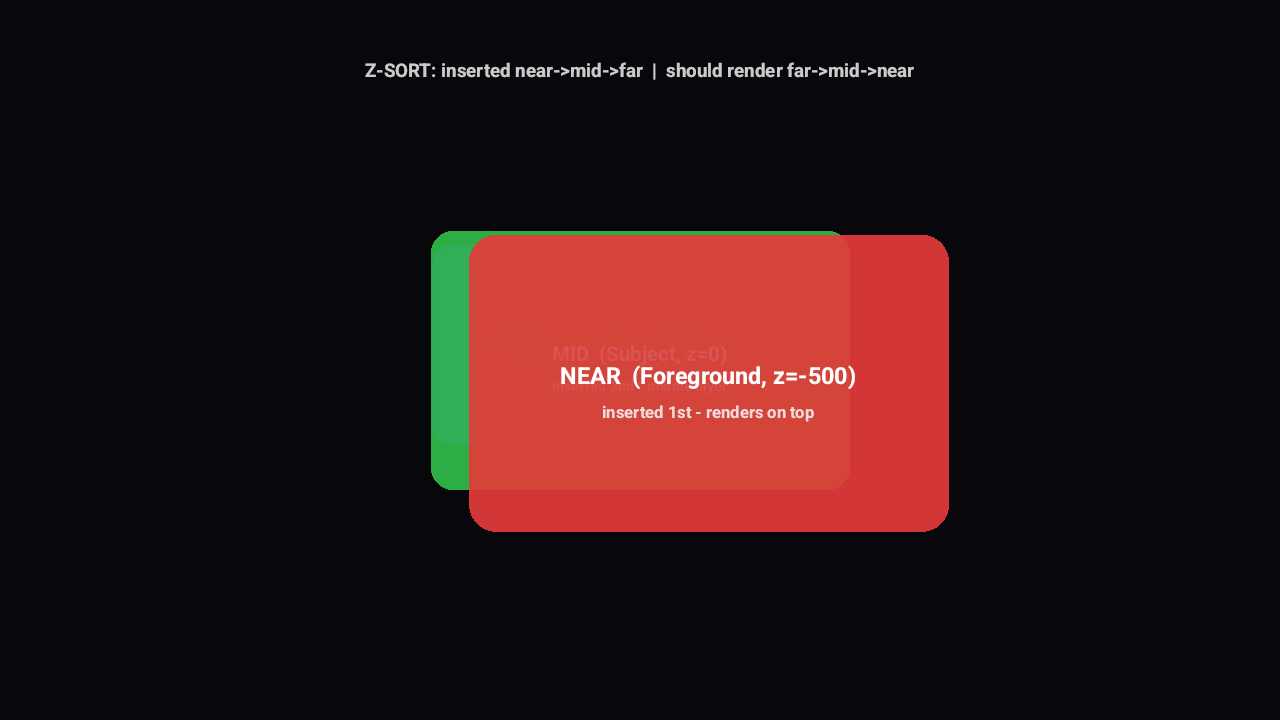
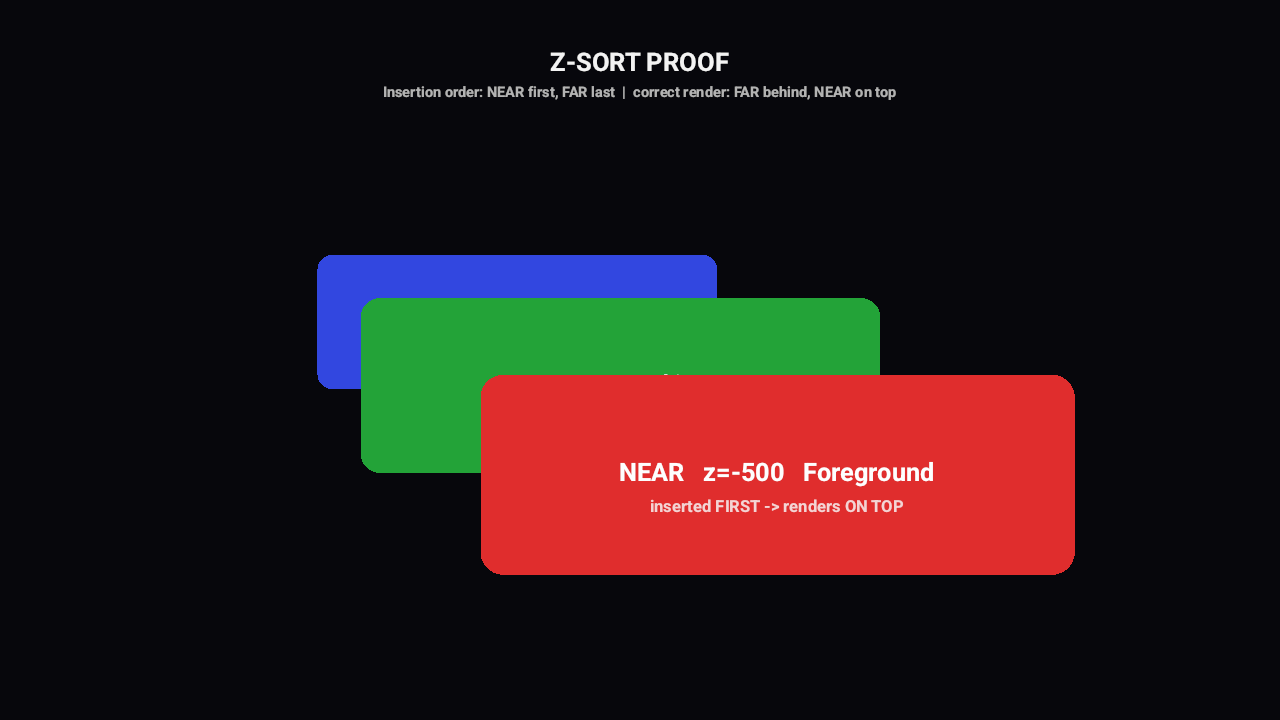
polish(proofs): redesign z_sorting cascade, parallax per-role cards, drop offset dup
ZSortingProof:
- Clear cascade layout (FAR top-left, MID center, NEAR bottom-right)
- Each card shows role name, z value, insertion/render order note
- No alpha confusion: all cards opaque, stagger makes all three readable

ParallaxRolesProof:
- Each depth role gets its own card at a unique X position (160-1120)
- Cards drift at visibly different rates as camera pans
- Fixed 2D bottom legend: "FarBG z=+2000 | BG z=+1200 | ... | HUD 2D fixed"
- FarBackground checker covers full canvas as reference layer

proof_suites.cpp:
- Remove DepthRoleOffsetProof from depth suite (duplicate of DepthOffsetProof)

Changed region(s): [[0.25, 0.3056, 0.8438, 0.825], [0.2812, 0.0611, 0.7188, 0.1528]]

diff --git a/examples/depth_roles_proof.cpp b/examples/depth_roles_proof.cpp
@@ -156,10 +156,9 @@ CHRONON_REGISTER_COMPOSITION("DepthRoleOffsetProof", DepthRoleOffsetProof)
 
 // ---------------------------------------------------------------------------
 // ZSortingProof
-// Three overlapping cards at different Z depths.
-// Near card (red, inserted FIRST) must render on top of far card (blue, inserted LAST).
-// Camera at z=-4000 so scale differences are small (~5-15%) — cards stay readable.
-// Insertion order: near → mid → far (backwards from expected 2D painter order).
+// Three cards in a cascade layout. Insertion order is NEAR first, FAR last —
+// the opposite of correct render order. Validates depth sort.
+// Each card is staggered so all three are readable even with overlap.
 // ---------------------------------------------------------------------------
 static Composition ZSortingProof() {
     return composition({
@@ -167,67 +166,67 @@ static Composition ZSortingProof() {
     }, [](const FrameContext& ctx) {
         SceneBuilder s(ctx);
 
-        // Camera far back so the depth-role Z values (-500, 0, +1200) produce
-        // only subtle scale variation — avoids the near card swallowing everything.
         s.camera_2_5d({
             .enabled = true, .position = {0, 0, -4000}, .zoom = 4000.0f
         });
         s.rect("bg", { .size = {1280, 720}, .color = Color{0.03f, 0.03f, 0.05f, 1},
                         .pos = {640, 360, 0} });
 
-        // Label: insertion order is intentionally reversed vs depth
         s.layer("title", [](LayerBuilder& l) {
-            l.position({640, 60, 0});
-            l.text("t", { .content = "Z-SORT: inserted near->mid->far  |  should render far->mid->near",
-                .style = { .font_path = "assets/fonts/Inter-Bold.ttf", .size = 22,
-                           .color = Color{1,1,1,0.6f}, .align = TextAlign::Center } });
+            l.position({640, 48, 0});
+            l.text("t1", { .content = "Z-SORT PROOF",
+                .style = { .font_path = "assets/fonts/Inter-Bold.ttf", .size = 30,
+                           .color = Color{1,1,1,0.9f}, .align = TextAlign::Center } });
+            l.text("t2", { .content = "Insertion order: NEAR first, FAR last  |  correct render: FAR behind, NEAR on top",
+                .style = { .font_path = "assets/fonts/Inter-Bold.ttf", .size = 17,
+                           .color = Color{1,1,1,0.45f}, .align = TextAlign::Center },
+                .pos = {0, 36, 0} });
         });
 
-        // Near-red — inserted FIRST, depth_role Foreground (z=-500).
-        // After depth sort this must paint LAST (on top).
-        s.layer("near-red", [](LayerBuilder& l) {
-            l.enable_3d(true).position({700, 380, 0}).depth_role(DepthRole::Foreground);
-            l.rounded_rect("r", { .size = {420, 260}, .radius = 24,
-                .color = Color{0.85f, 0.22f, 0.22f, 0.95f}, .pos = {0, 0, 0} });
-            l.text("l1", { .content = "NEAR  (Foreground, z=-500)",
-                .style = { .font_path = "assets/fonts/Inter-Bold.ttf", .size = 24,
+        // Cascade: top-left(far) -> center(mid) -> bottom-right(near)
+        // FAR-blue inserted LAST — must paint first (behind)
+        s.layer("far", [](LayerBuilder& l) {
+            l.enable_3d(true).position({480, 310, 0}).depth_role(DepthRole::Background);
+            l.rounded_rect("r", { .size = {520, 175}, .radius = 20,
+                .color = Color{0.20f, 0.28f, 0.88f, 1}, .pos = {0, 0, 0} });
+            l.text("l1", { .content = "FAR   z=+1200   Background",
+                .style = { .font_path = "assets/fonts/Inter-Bold.ttf", .size = 26,
                            .color = Color{1,1,1,1}, .align = TextAlign::Center },
-                .pos = {0, -18, 0} });
-            l.text("l2", { .content = "inserted 1st - renders on top",
+                .pos = {0, -14, 0} });
+            l.text("l2", { .content = "inserted LAST -> renders BEHIND",
                 .style = { .font_path = "assets/fonts/Inter-Bold.ttf", .size = 17,
-                           .color = Color{1,1,1,0.7f}, .align = TextAlign::Center },
-                .pos = {0, 18, 0} });
+                           .color = Color{1,1,1,0.65f}, .align = TextAlign::Center },
+                .pos = {0, 20, 0} });
         });
 
-        // Mid-green — inserted SECOND, Subject (z=0).
-        s.layer("mid-green", [](LayerBuilder& l) {
-            l.enable_3d(true).position({640, 360, 0}).depth_role(DepthRole::Subject);
-            l.rounded_rect("r", { .size = {420, 260}, .radius = 24,
-                .color = Color{0.18f, 0.70f, 0.28f, 0.95f}, .pos = {0, 0, 0} });
-            l.text("l1", { .content = "MID  (Subject, z=0)",
-                .style = { .font_path = "assets/fonts/Inter-Bold.ttf", .size = 24,
+        // MID-green inserted SECOND
+        s.layer("mid", [](LayerBuilder& l) {
+            l.enable_3d(true).position({620, 385, 0}).depth_role(DepthRole::Subject);
+            l.rounded_rect("r", { .size = {520, 175}, .radius = 20,
+                .color = Color{0.14f, 0.64f, 0.22f, 1}, .pos = {0, 0, 0} });
+            l.text("l1", { .content = "MID   z=0   Subject",
+                .style = { .font_path = "assets/fonts/Inter-Bold.ttf", .size = 26,
                            .color = Color{1,1,1,1}, .align = TextAlign::Center },
-                .pos = {0, -18, 0} });
-            l.text("l2", { .content = "inserted 2nd - middle layer",
+                .pos = {0, -14, 0} });
+            l.text("l2", { .content = "inserted 2nd -> middle layer",
                 .style = { .font_path = "assets/fonts/Inter-Bold.ttf", .size = 17,
-                           .color = Color{1,1,1,0.7f}, .align = TextAlign::Center },
-                .pos = {0, 18, 0} });
+                           .color = Color{1,1,1,0.65f}, .align = TextAlign::Center },
+                .pos = {0, 20, 0} });
         });
 
-        // Far-blue — inserted LAST, Background (z=+1200).
-        // Must paint FIRST (behind both), despite being inserted last.
-        s.layer("far-blue", [](LayerBuilder& l) {
-            l.enable_3d(true).position({580, 340, 0}).depth_role(DepthRole::Background);
-            l.rounded_rect("r", { .size = {420, 260}, .radius = 24,
-                .color = Color{0.22f, 0.33f, 0.90f, 0.95f}, .pos = {0, 0, 0} });
-            l.text("l1", { .content = "FAR  (Background, z=+1200)",
-                .style = { .font_path = "assets/fonts/Inter-Bold.ttf", .size = 24,
+        // NEAR-red inserted FIRST — must paint last (on top)
+        s.layer("near", [](LayerBuilder& l) {
+            l.enable_3d(true).position({760, 460, 0}).depth_role(DepthRole::Foreground);
+            l.rounded_rect("r", { .size = {520, 175}, .radius = 20,
+                .color = Color{0.88f, 0.18f, 0.18f, 1}, .pos = {0, 0, 0} });
+            l.text("l1", { .content = "NEAR   z=-500   Foreground",
+                .style = { .font_path = "assets/fonts/Inter-Bold.ttf", .size = 26,
                            .color = Color{1,1,1,1}, .align = TextAlign::Center },
-                .pos = {0, -18, 0} });
-            l.text("l2", { .content = "inserted last - renders behind",
+                .pos = {0, -14, 0} });
+            l.text("l2", { .content = "inserted FIRST -> renders ON TOP",
                 .style = { .font_path = "assets/fonts/Inter-Bold.ttf", .size = 17,
-                           .color = Color{1,1,1,0.7f}, .align = TextAlign::Center },
-                .pos = {0, 18, 0} });
+                           .color = Color{1,1,1,0.65f}, .align = TextAlign::Center },
+                .pos = {0, 20, 0} });
         });
 
         return s.build();
@@ -291,8 +290,10 @@ CHRONON_REGISTER_COMPOSITION("DepthOffsetProof", DepthOffsetProof)
 
 // ---------------------------------------------------------------------------
 // ParallaxRolesProof
-// Camera pans X while layers at different depth roles move at different rates.
-// FarBackground moves least, Foreground moves most — visible parallax separation.
+// Each depth role gets its own card at a unique X position.
+// Camera pans X: cards at different depths drift at different rates.
+// FarBackground drifts least, Foreground drifts most.
+// Fixed 2D legend at bottom lists every role with its Z value.
 // ---------------------------------------------------------------------------
 static Composition ParallaxRolesProof() {
     return composition({
@@ -301,9 +302,9 @@ static Composition ParallaxRolesProof() {
         SceneBuilder s(ctx);
 
         const auto cam_x = keyframes(ctx.frame, {
-            KF{  0, -220.0f, Easing::InOutCubic },
-            KF{ 60,  220.0f, Easing::InOutCubic },
-            KF{120, -220.0f }
+            KF{  0, -260.0f, Easing::InOutCubic },
+            KF{ 60,  260.0f, Easing::InOutCubic },
+            KF{120, -260.0f }
         });
 
         s.camera_2_5d({
@@ -313,58 +314,59 @@ static Composition ParallaxRolesProof() {
         s.rect("bg-fill", { .size = {1280, 720},
             .color = Color{0.02f, 0.02f, 0.04f, 1}, .pos = {640, 360, 0} });
 
-        // FarBackground — moves least
+        // Full-canvas checker so FarBackground movement is clear
         s.layer("far-bg", [](LayerBuilder& l) {
-            l.enable_3d(true).position({640, 360, 0})
-             .depth_role(DepthRole::FarBackground);
+            l.enable_3d(true).position({640, 360, 0}).depth_role(DepthRole::FarBackground);
             l.image("checker", { .path = "assets/images/checker.png",
-                .size = {1800, 1000}, .pos = {0, 0, 0}, .opacity = 0.2f });
+                .size = {2200, 720}, .pos = {0, 0, 0}, .opacity = 0.18f });
         });
 
-        // Background
-        s.layer("bg", [](LayerBuilder& l) {
-            l.enable_3d(true).position({640, 360, 0}).depth_role(DepthRole::Background);
-            l.rect("r", { .size = {1100, 580},
-                .color = Color{0.08f, 0.10f, 0.20f, 0.7f}, .pos = {0, 0, 0} });
-            l.text("lbl", { .content = "BACKGROUND",
-                .style = { .font_path = "assets/fonts/Inter-Bold.ttf", .size = 22,
-                           .color = Color{1,1,1,0.35f}, .align = TextAlign::Center } });
-        });
+        // Five role cards spread across X so none overlap.
+        // World positions are intentionally wide — the camera pan reveals
+        // that each card drifts a different number of pixels per frame.
+        struct RoleCard {
+            const char* id;
+            f32 wx;      // world X
+            DepthRole role;
+            Color col;
+            const char* label;
+            const char* sub;
+        };
+        for (auto [id, wx, role, col, label, sub] : std::initializer_list<RoleCard>{
+            {"bg",   160, DepthRole::Background,    Color{0.18f,0.25f,0.70f,0.9f}, "BACKGROUND",  "z=+1200"},
+            {"mg",   370, DepthRole::Midground,     Color{0.18f,0.48f,0.70f,0.9f}, "MIDGROUND",   "z=+600"},
+            {"sub",  640, DepthRole::Subject,       Color{0.22f,0.35f,0.85f,1.0f}, "SUBJECT",     "z=0"},
+            {"atm",  900, DepthRole::Atmosphere,    Color{0.32f,0.48f,0.75f,0.9f}, "ATMOSPHERE",  "z=-300"},
+            {"fg",  1120, DepthRole::Foreground,    Color{0.65f,0.48f,0.12f,1.0f}, "FOREGROUND",  "z=-500"},
+        }) {
+            s.layer(id, [&](LayerBuilder& l) {
+                l.enable_3d(true).position({wx, 360, 0}).depth_role(role);
+                l.rounded_rect("r", { .size = {200, 150}, .radius = 16,
+                    .color = col, .pos = {0, 0, 0} });
+                l.text("l1", { .content = label,
+                    .style = { .font_path = "assets/fonts/Inter-Bold.ttf", .size = 20,
+                               .color = Color{1,1,1,1}, .align = TextAlign::Center },
+                    .pos = {0, -14, 0} });
+                l.text("l2", { .content = sub,
+                    .style = { .font_path = "assets/fonts/Inter-Bold.ttf", .size = 16,
+                               .color = Color{1,1,1,0.65f}, .align = TextAlign::Center },
+                    .pos = {0, 16, 0} });
+            });
+        }
 
-        // Midground
-        s.layer("mid", [](LayerBuilder& l) {
-            l.enable_3d(true).position({640, 360, 0}).depth_role(DepthRole::Midground);
-            l.rounded_rect("r", { .size = {600, 260}, .radius = 24,
-                .color = Color{0.12f, 0.20f, 0.45f, 0.85f}, .pos = {0, 0, 0} });
-            l.text("lbl", { .content = "MIDGROUND",
-                .style = { .font_path = "assets/fonts/Inter-Bold.ttf", .size = 32,
+        // Fixed 2D HUD: title and legend — never moves
+        s.layer("hud-title", [](LayerBuilder& l) {
+            l.position({640, 36, 0});
+            l.text("t", { .content = "PARALLAX PROOF  |  camera pans X, each role drifts at its own rate",
+                .style = { .font_path = "assets/fonts/Inter-Bold.ttf", .size = 19,
                            .color = Color{1,1,1,0.55f}, .align = TextAlign::Center } });
         });
 
-        // Subject
-        s.layer("subject", [](LayerBuilder& l) {
-            l.enable_3d(true).position({640, 360, 0}).depth_role(DepthRole::Subject);
-            l.rounded_rect("r", { .size = {480, 240}, .radius = 28,
-                .color = Color{0.18f, 0.32f, 0.75f, 1}, .pos = {0, 0, 0} });
-            l.text("lbl", { .content = "SUBJECT",
-                .style = { .font_path = "assets/fonts/Inter-Bold.ttf", .size = 48,
-                           .color = Color{1,1,1,1}, .align = TextAlign::Center } });
-        });
-
-        // Foreground — moves most
-        s.layer("fg", [](LayerBuilder& l) {
-            l.enable_3d(true).position({640, 500, 0}).depth_role(DepthRole::Foreground);
-            l.text("lbl", { .content = "FOREGROUND",
-                .style = { .font_path = "assets/fonts/Inter-Bold.ttf", .size = 40,
-                           .color = Color{1.0f, 0.85f, 0.3f, 1}, .align = TextAlign::Center } });
-        });
-
-        // 2D HUD - stays fixed regardless of camera
-        s.layer("hud", [](LayerBuilder& l) {
-            l.position({640, 40, 0});
-            l.text("t", { .content = "2D HUD - FIXED",
-                .style = { .font_path = "assets/fonts/Inter-Bold.ttf", .size = 20,
-                           .color = Color{1,1,1,0.5f}, .align = TextAlign::Center } });
+        s.layer("hud-legend", [](LayerBuilder& l) {
+            l.position({640, 690, 0});
+            l.text("t", { .content = "FarBG z=+2000  |  BG z=+1200  |  MG z=+600  |  Subject z=0  |  Atm z=-300  |  FG z=-500  |  HUD 2D fixed",
+                .style = { .font_path = "assets/fonts/Inter-Bold.ttf", .size = 15,
+                           .color = Color{1,1,1,0.40f}, .align = TextAlign::Center } });
         });
 
         return s.build();

diff --git a/apps/chronon3d_cli/proof_suites.cpp b/apps/chronon3d_cli/proof_suites.cpp
@@ -79,11 +79,10 @@ const std::vector<ProofSuite>& proof_suites() {
         {
             .name = "depth",
             .frames = {
-                {"DepthRolesProof",      0,  "depth_roles_0000.png"},
-                {"DepthRolesProof",      45, "depth_roles_0045.png"},
-                {"DepthRolesProof",      90, "depth_roles_0090.png"},
-                {"DepthRoleOffsetProof", 0,  "depth_role_offset.png"},
-                {"ZSortingProof",        0,  "z_sorting_0000.png"},
+                {"DepthRolesProof",  0,  "depth_roles_0000.png"},
+                {"DepthRolesProof",  45, "depth_roles_0045.png"},
+                {"DepthRolesProof",  90, "depth_roles_0090.png"},
+                {"ZSortingProof",    0,  "z_sorting_0000.png"},
                 {"DepthOffsetProof",     0,  "depth_offset_0000.png"},
                 {"ParallaxRolesProof",   0,  "parallax_0000.png"},
                 {"ParallaxRolesProof",   30, "parallax_0030.png"},
